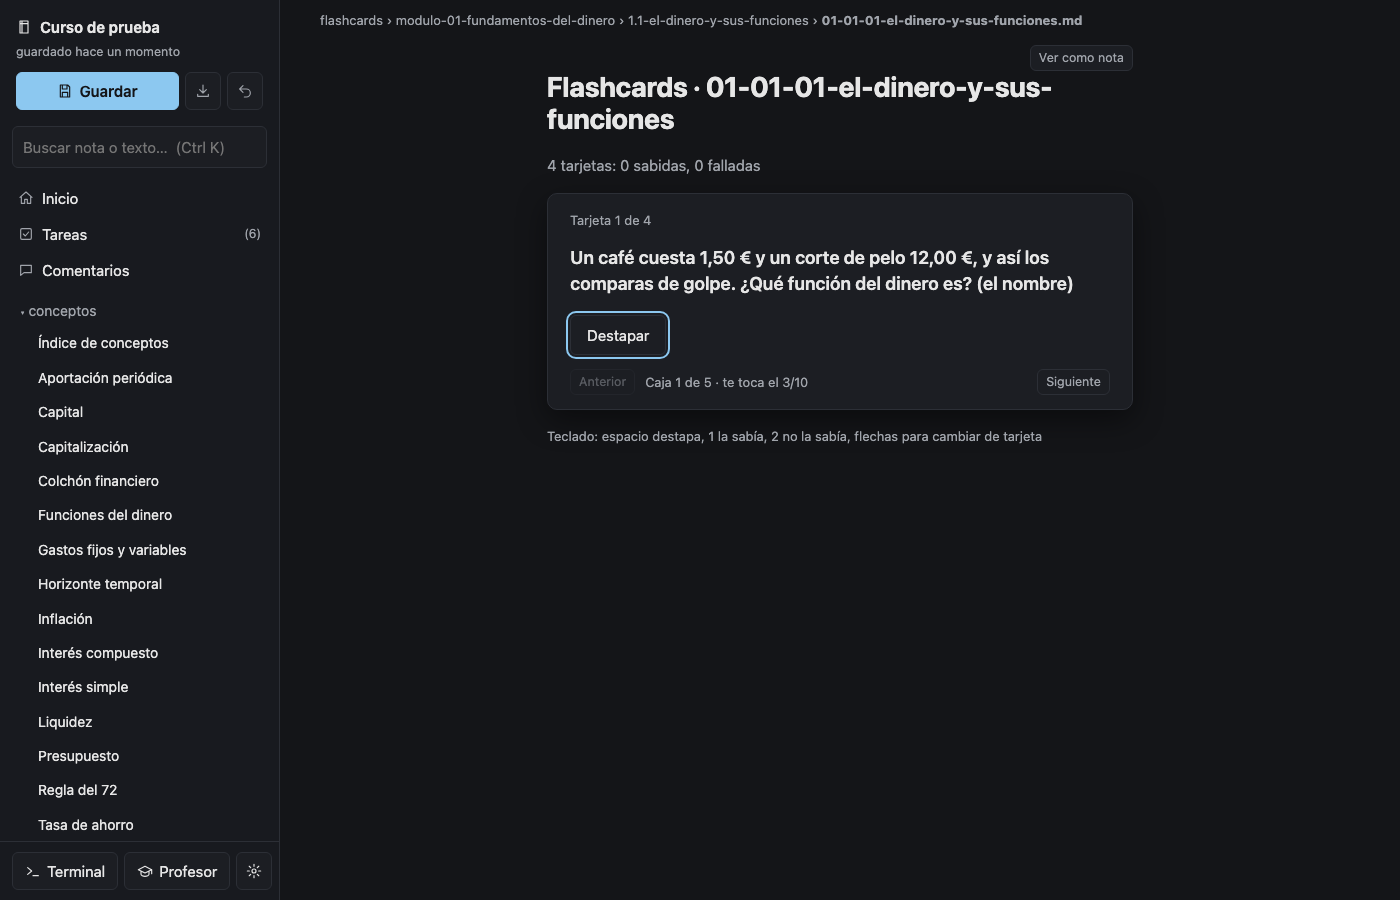
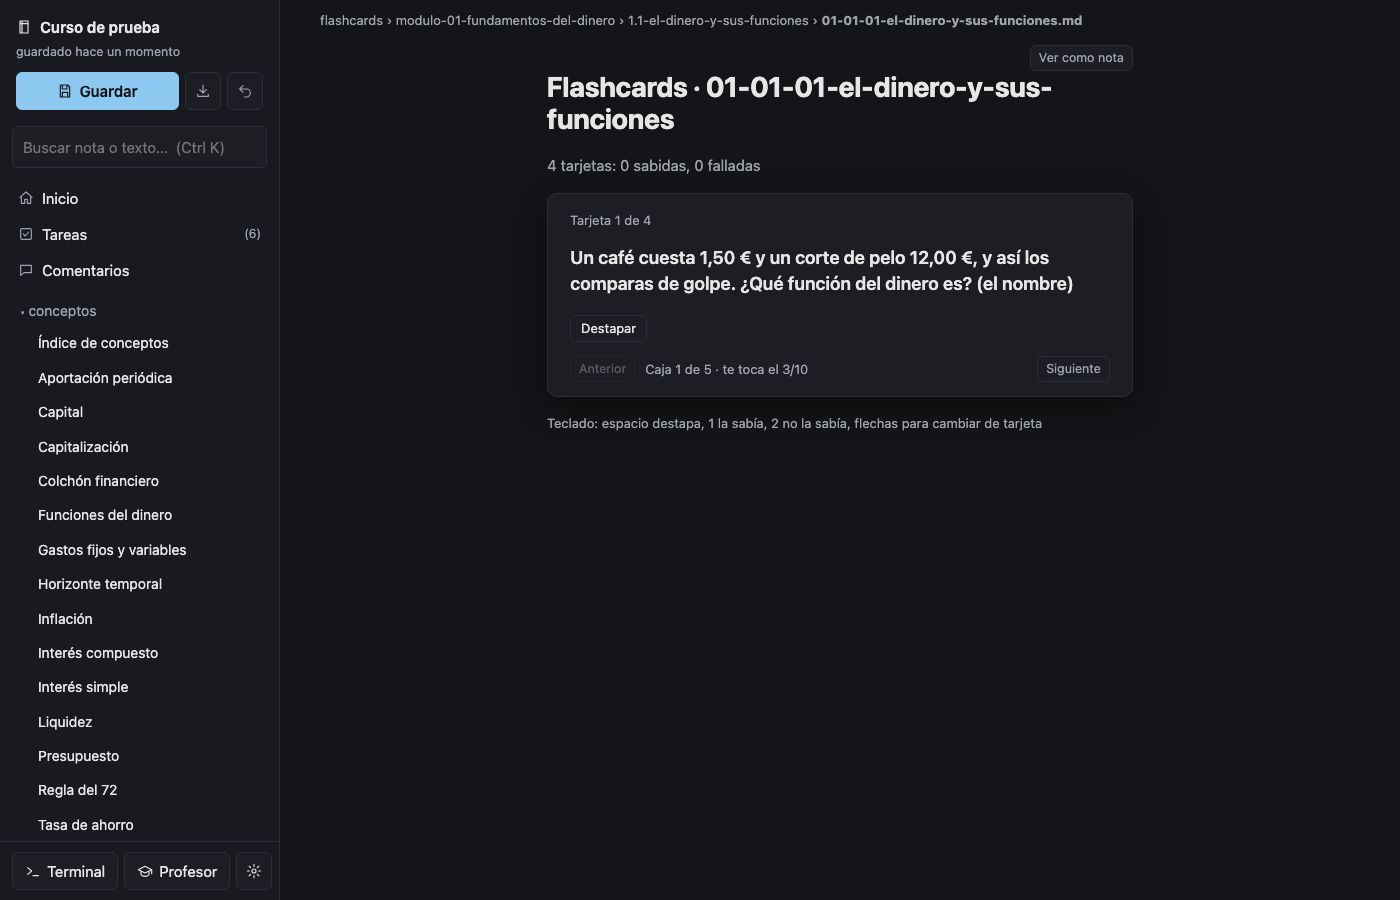
Tarjetas: Destapar al tamaño de Siguiente y el foco en la tarjeta
Los botones de la tarjeta van al tamaño de Anterior / Siguiente; solo cambia
el color de «La sabía». El foco al pintar va a la tarjeta, no al botón, para
que nada lleve anillo sin que el alumno haya tocado el teclado.

Changed region(s): [[0.3993, 0.4667, 0.7371, 0.4978], [0.3993, 0.3422, 0.5836, 0.4356], [0.7371, 0.4044, 0.7986, 0.4356]]

diff --git a/public/app.js b/public/app.js
@@ -148,7 +148,7 @@ function pintarTarjeta() {
   const sabidas = s.tarjetas.filter(x => x.sabia === true).length, falladas = s.tarjetas.filter(x => x.sabia === false).length;
   const marca = t.sabia === true ? '<span class="marca ok">✅ la sabías</span>' : t.sabia === false ? '<span class="marca mal">❌ no la sabías</span>' : '';
   $('#nota').innerHTML = `${verComoNota(s.ruta)}<h1>${esc(s.titulo)}</h1><p class="resumen">${n} tarjetas: ${sabidas} sabidas, ${falladas} falladas</p>
-    <section class="tarjeta" aria-live="polite">
+    <section class="tarjeta" aria-live="polite" tabindex="-1">
       <div class="cabecera"><span>Tarjeta ${i + 1} de ${n}</span>${marca}</div>
       <div class="pregunta-tarjeta">${t.pregunta}</div>
       ${s.destapada ? `<div class="respuesta-tarjeta">${t.respuesta}</div><div class="botones"><button type="button" data-tarjeta="sabia">✅ La sabía</button><button type="button" data-tarjeta="no-sabia" class="secundario">❌ No la sabía</button></div>`
@@ -156,7 +156,7 @@ function pintarTarjeta() {
       <div class="pie"><button type="button" class="secundario pequeno" data-tarjeta="anterior"${i === 0 ? ' disabled' : ''}>Anterior</button><span class="pista">${esc(t.info)}</span><button type="button" class="secundario pequeno" data-tarjeta="siguiente"${i === n - 1 ? ' disabled' : ''}>Siguiente</button></div>
     </section><p class="pista">Teclado: espacio destapa, 1 la sabía, 2 no la sabía, flechas para cambiar de tarjeta</p>`;
   $('#nota').querySelectorAll('.math').forEach(el => { try { katex.render(el.textContent, el, { displayMode: el.dataset.display === '1', throwOnError: false }); } catch { /* texto */ } });
-  const principal = $('#nota [data-tarjeta="destapar"], #nota [data-tarjeta="sabia"]'); if (principal) principal.focus();
+  $('#nota .tarjeta').focus();   // el foco va a la tarjeta, no a un botón: las teclas siguen funcionando y nada lleva anillo
 }
 async function accionTarjeta(que) {
   const s = tarjetasEstado; if (!s) return;

diff --git a/public/estilo.css b/public/estilo.css
@@ -179,6 +179,7 @@ input[type="checkbox"], input[type="radio"] { accent-color: var(--acento); width
 
 /* flashcards en modo tarjeta */
 .tarjeta { background: var(--papel); border: 1px solid var(--linea); border-radius: 10px; padding: 16px 22px 14px; margin: 16px 0; box-shadow: var(--sombra); }
+.tarjeta:focus { outline: none; }
 .tarjeta .cabecera, .tarjeta .pie { display: flex; justify-content: space-between; align-items: center; gap: 10px; font-size: 13px; color: var(--tinta-suave); }
 .tarjeta .pie { margin-top: 14px; }
 .tarjeta .marca.ok { color: var(--ok); } .tarjeta .marca.mal { color: var(--mal); }
@@ -186,7 +187,7 @@ input[type="checkbox"], input[type="radio"] { accent-color: var(--acento); width
 .respuesta-tarjeta { border-top: 1px dashed var(--linea); padding-top: 12px; margin-bottom: 14px; }
 .respuesta-tarjeta .bloque { margin: 0; padding: 0; }
 .tarjeta .botones { display: flex; gap: 10px; flex-wrap: wrap; }
-.tarjeta .botones button { padding: 7px 16px; font-size: 15px; }
+.tarjeta .botones button { padding: 2px 10px; font-size: 13px; min-height: 26px; }   /* mismo tamaño que Anterior / Siguiente; solo cambia el color */
 .tarjeta .botones [data-tarjeta="sabia"] { background: var(--acento); color: var(--sobre-acento); border-color: var(--acento); font-weight: 600; }   /* la decisión es «la sabía / no la sabía»; Destapar es solo un paso */
 
 /* terminal */
